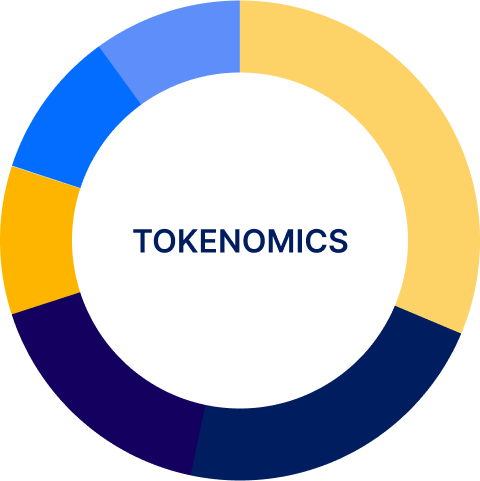
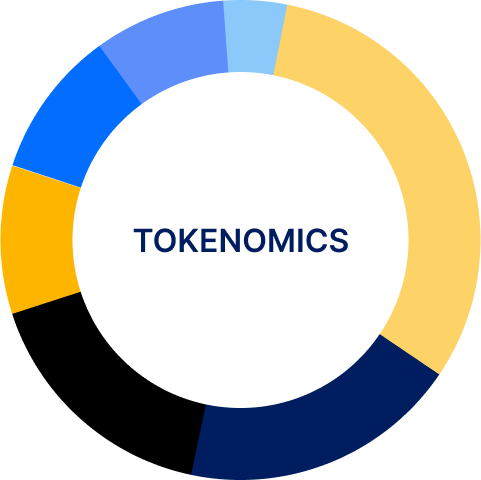
update images

diff --git a/src/components/landing/Nft.js b/src/components/landing/Nft.js
@@ -1,0 +1,84 @@
+import React from 'react';
+import { Link } from 'react-router-dom';
+import { Container, UncontrolledCarousel } from 'reactstrap';
+
+import './gaming.css';
+
+import remote from '../../assets/images/remo.png';
+import pads from '../../assets/images/game-pads.png';
+import frame from '../../assets/images/Frame.png';
+
+import rect1 from '../../assets/images/rect-1.png';
+import rect2 from '../../assets/images/rect-2.png';
+import rect3 from '../../assets/images/rect-3.png';
+import virtual from '../../assets/images/virtual.png';
+
+const items = [
+  {
+    key: 1,
+    src: rect1,
+  },
+  {
+    key: 2,
+    src: rect2,
+  },
+  {
+    key: 3,
+    src: rect3,
+  },
+];
+
+function Nft() {
+  return (
+    <section id="gaming" className="section-wrapper">
+      <Container>
+        <div className="gaming-wrapper">
+          <div className="gaming-header">
+            <div className="gaming-title">
+              <h2
+                className="mt-4 wow fadeInUp "
+                data-wow-duration="1s"
+                data-wow-delay="0.5s"
+              >
+                Explore the largest nft market
+              </h2>
+              <h6
+                className="wow fadeInUp"
+                data-wow-duration="1s"
+                data-wow-delay="1.5s"
+              >
+                seamless and environmentally friendly experience for users
+                looking to engage with the digital art world.
+              </h6>
+              <div className="get-sterted mt-5">
+                <Link
+                  className="btn btn-primary hero-btn btn-gradient btn-shadow"
+                  to="/nfts"
+                >
+                  Explore
+                </Link>
+              </div>
+            </div>
+            <div className="gaming-header-right">
+              <img className="frame" src={frame} alt="Gaming Frame" />
+            </div>
+          </div>
+          <div className="gaming-images">
+            <div className="left">
+              <UncontrolledCarousel items={items} />
+            </div>
+            <div
+              className="gaming-virtual  wow fadeInRight"
+              data-wow-duration="1s"
+              data-wow-delay="2s"
+            >
+              <img src={virtual} alt="Virtual Games" />
+            </div>
+          </div>
+        </div>
+      </Container>
+    </section>
+  );
+}
+
+export default Nft;

diff --git a/src/components/landing/About.js b/src/components/landing/About.js
@@ -17,13 +17,13 @@ export default function About() {
             </div>
             <Row className="align-items-center justify-content-center">
               <Col lg={6}>
-                <div className="about-img wow fadeInLeft" data-wow-delay=".5s">
+                <div className="about-img wow fadeInUp" data-wow-delay="1s">
                   <img src={about} alt="about" />
                 </div>
               </Col>
               <Col lg={6}>
                 <div
-                  className="about-content wow fadeInRight"
+                  className="about-content wow fadeInUp"
                   data-wow-delay="1s"
                 >
                   <div className="about-text">

diff --git a/src/components/landing/tokenomics.css b/src/components/landing/tokenomics.css
@@ -70,23 +70,23 @@
 }
 
 .tokenomics-list li:nth-child(2):before {
-  background-color: #026dff;
+  background: #001e5f;
 }
 
 .tokenomics-list li:nth-child(3):before {
-  background-color: #5d8ef9;
+  background: #5d8ef9;
 }
 .tokenomics-list li:nth-child(4):before {
-  background-color: #fdb500;
+  background: #026dff;
 }
 .tokenomics-list li:nth-child(5):before {
-  background-color: #13005f;
+  background: #000000;
 }
 .tokenomics-list li:nth-child(6):before {
-  background-color: #001e5f;
+  background: #fdb500;
 }
 .tokenomics-list li:nth-child(7):before {
-  background-color: #011236;
+  background: #8ac9f9;
 }
 
 @media (min-width: 993px) {

diff --git a/src/components/landing/about.css b/src/components/landing/about.css
@@ -29,7 +29,7 @@
   gap: 20px;
   padding-left: 0;
   list-style-type: none;
-  margin-top: 4rem;
+  margin-top: 1rem;
 }
 
 .about-content .about-text ul li {
